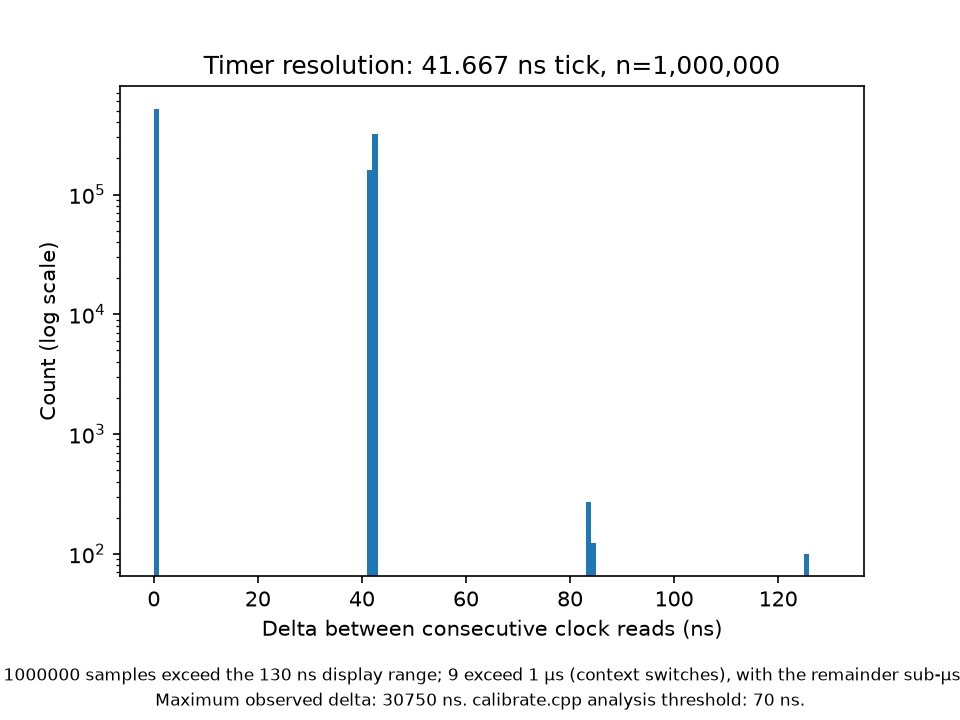
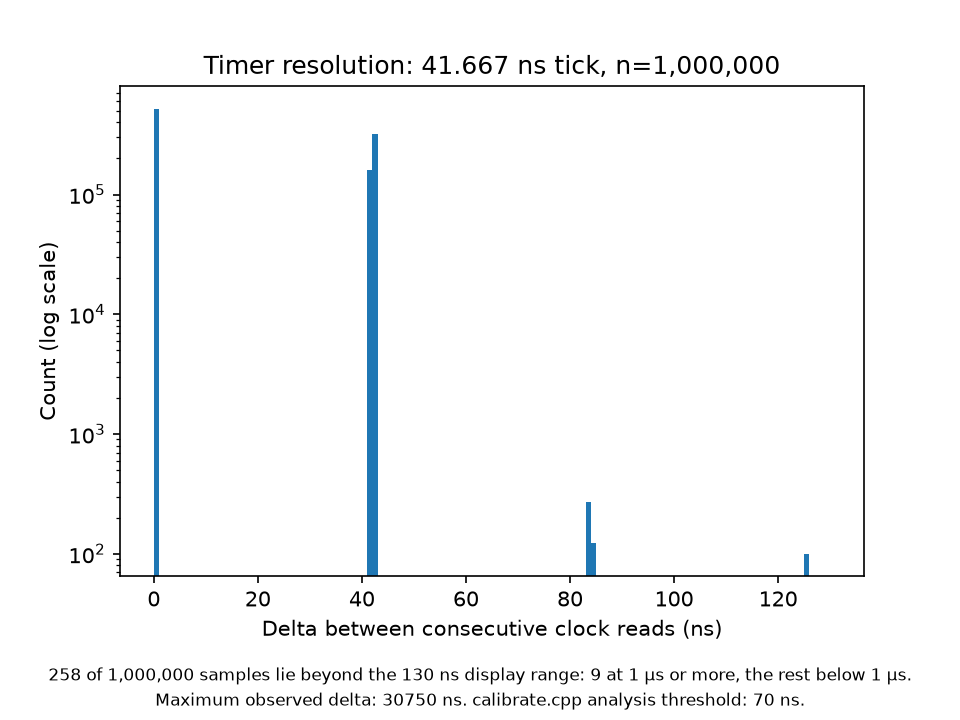
plot_calibration: fit the caption inside the figure
The first caption line was wider than the figure, so the committed PNG
read "1000000 samples exceed the 130 ns display range" with "258 of"
clipped off. The line is now split and states counts only, without
labelling the nine microsecond-scale samples as context switches or the
rest as stalls. The microsecond count now uses >= 1000 ns, the bound
calibrate.cpp uses; on the committed CSV both forms give nine.

results/timer_calibration.png is regenerated from the committed CSV with
the pinned packages on macOS, twice, with the same md5 both times.

Changed region(s): [[0.0, 0.9167, 1.0, 0.9472]]

diff --git a/scripts/plot_calibration.py b/scripts/plot_calibration.py
@@ -26,10 +26,8 @@ deltas = [int(line) for line in raw.split()]
 
 # Caption statistics
 beyond_display = len([x for x in deltas if x > display_max_ns])
-# Above 1000 ns, where calibrate.cpp's microsecond bucket starts at 1000:
-# a difference of exactly 1000 ns, 24 ticks, is counted there and not
-# here.
-context_switches = len([x for x in deltas if x > 1000])
+# 1000 ns and above, the bounds of calibrate.cpp's microsecond bucket.
+microsecond = len([x for x in deltas if x >= 1000])
 max_delta = max(deltas)
 
 
@@ -47,8 +45,9 @@ plt.subplots_adjust(bottom=0.20)
 plt.figtext(
     0.5,
     0.055,
-    f"{beyond_display} of {len(deltas)} samples exceed the {display_max_ns} ns display range; "
-    f"{context_switches} exceed 1 µs (context switches), with the remainder sub-µs stalls.",
+    f"{beyond_display:,} of {len(deltas):,} samples lie beyond the "
+    f"{display_max_ns} ns display range: {microsecond} at 1 µs or more, "
+    f"the rest below 1 µs.",
     ha="center",
     fontsize=8
 )
